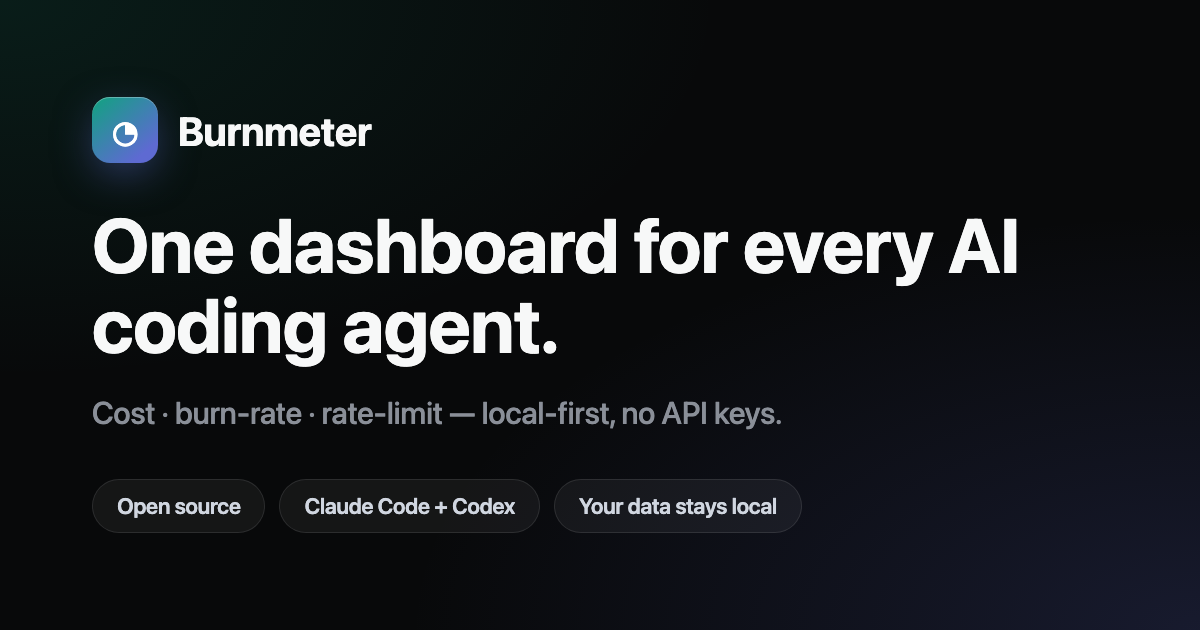
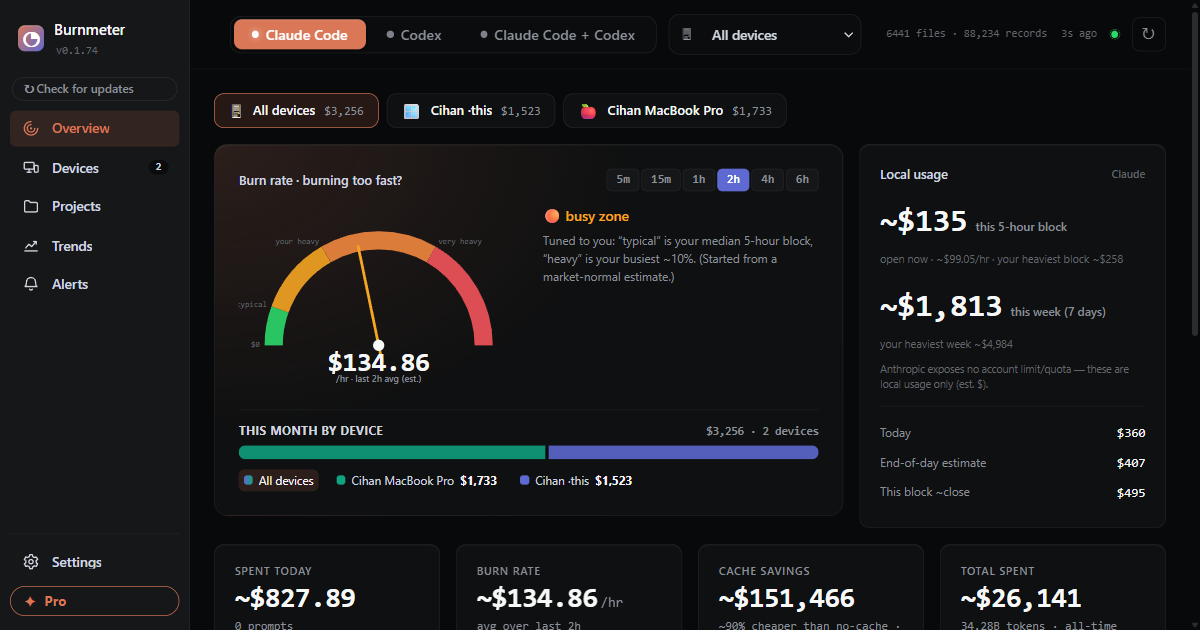
docs: fresh landing + og screenshots from the live v0.1.74 build
Both images were ~3 weeks / 70+ commits stale — they predated the native app, fleet
views, chat titles, and the SVG icon set, underselling the product on every share.
Recaptured from the running v0.1.74 build at the exact prior dimensions (1460x900
preview, 1200x630 og): shows the SVG sidebar, fleet device chips, CROSS-DEVICE live
models (Fable 5 on the PC + Sonnet 5 on the Mac, each with its chat title), and
chat-titled recent activity. Caption updated "sample data" -> "the maker's real usage"
because that's what it now honestly is.

diff --git a/docs/index.html b/docs/index.html
@@ -199,7 +199,7 @@ footer{border-top:1px solid var(--b1);padding:48px 0 40px}
 
   <!-- real Burnmeter dashboard screenshot — sample data, no real usage -->
   <div class="mock">
-    <div class="mock-cap">Dashboard preview · sample data</div>
+    <div class="mock-cap">Dashboard preview · the maker's real usage (v0.1.74)</div>
     <img class="mock-img" src="dashboard-preview.png" width="1460" height="920" loading="lazy"
          alt="Burnmeter dashboard: live burn-rate speedometer, today's spend, prevented cost, per-model breakdown, and recent sessions" />
   </div>